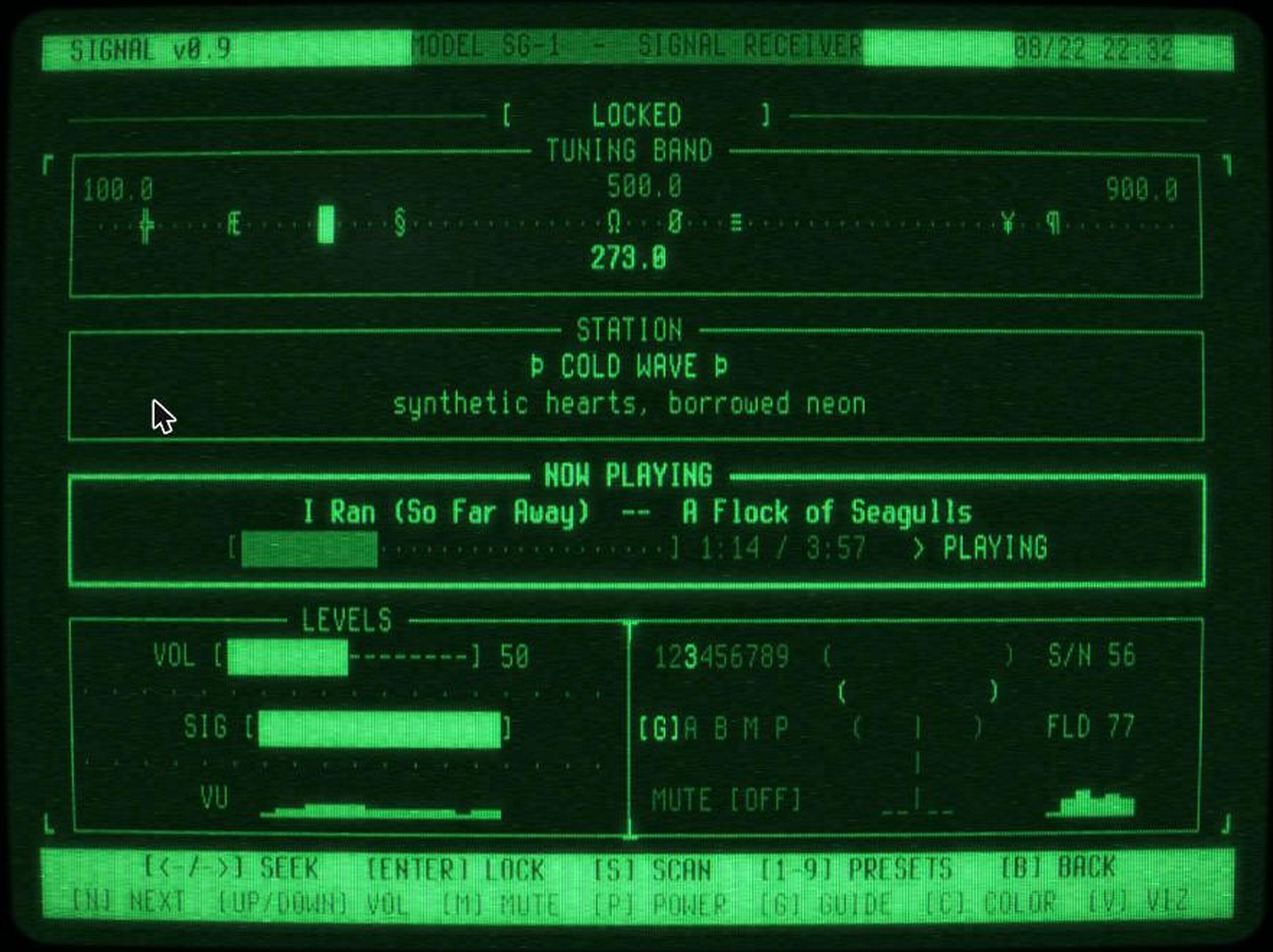
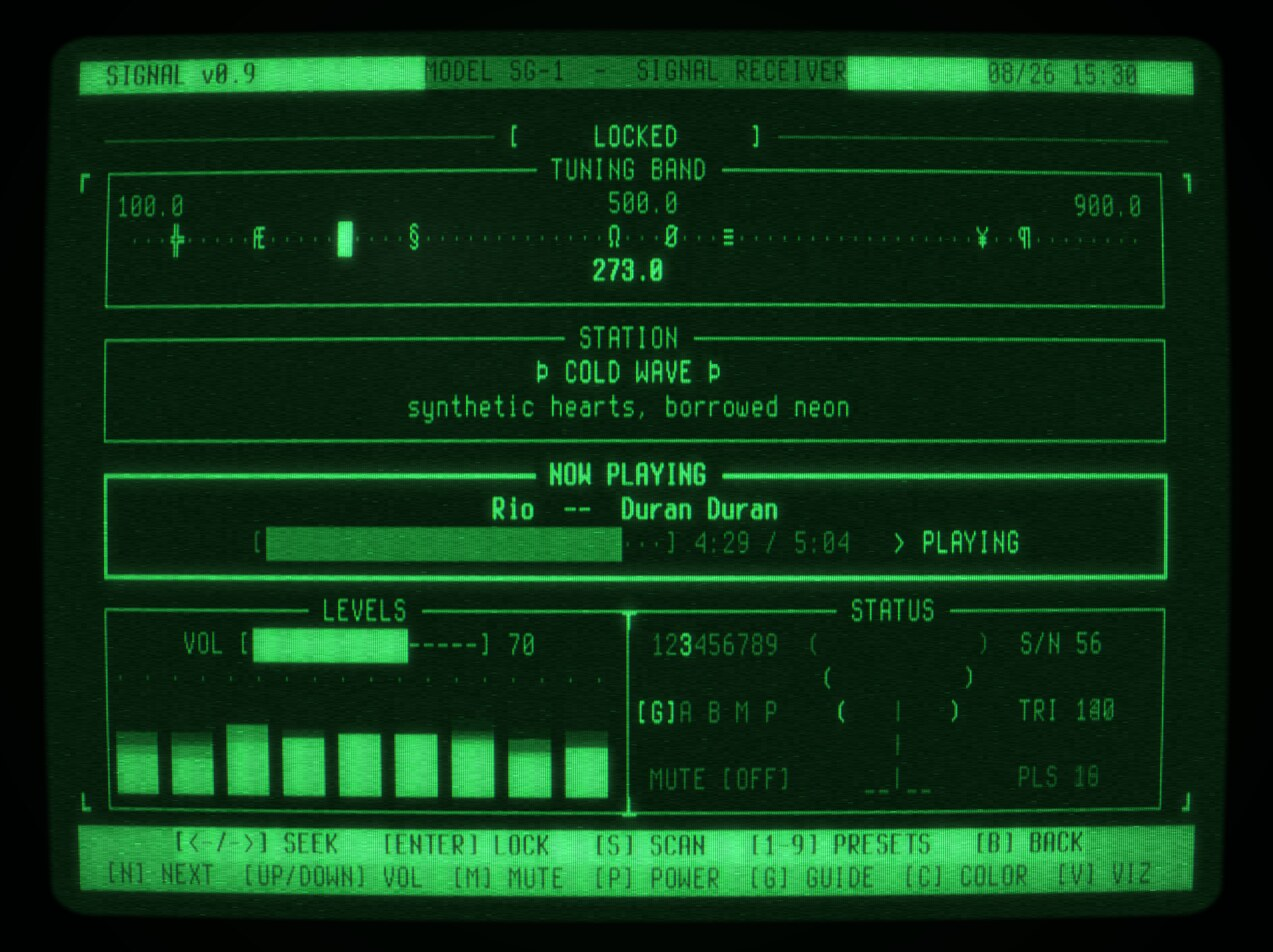
tools/shoot.mjs: regenerate screenshots/ headlessly; refresh all four
By hand these are a chore, so they rot -- the guide shot was still showing
a UI that had been replaced. This drives a real Chrome over the DevTools
Protocol (Node's global WebSocket speaks CDP, so no npm deps) and rebuilds
any named shot from the live build.

All four are refreshed. hero and display-modes now show COLD WAVE with
GREEN ROOM absent from the dial as designed; guide shows the rebuilt About
page; visualizer shows DISTORTION FIELD's flame.

Three app-specific traps the capture has to respect, all found the hard
way, and all of which produce a plausible-looking wrong image rather than
an obviously broken one:

  - The CRT is WebGL2 and headless has no GPU, so ANGLE's software backend
    is forced. Without it the context fails and you screenshot a blank page
    at exactly the right dimensions.
  - Phosphor persistence is per-FRAME (crt.js: max(total, prev * decay))
    and swiftshader runs at ~3fps, so a wall-clock settle caught the
    STANDBY wordmark ghosting straight through the guide's control table a
    full second after the keypress. settleFrames() counts rAF ticks.
  - [G] works from STANDBY, so the guide shot never powers on and never
    starts playback.

Playback itself does work headlessly -- verified reaching PLAYING on the
real IFrame player -- given --autoplay-policy=no-user-gesture-required,
since nothing here is a gesture as far as Chrome is concerned.

Chrome picks its own debugging port and the tool reads it back out of
[…]

diff --git a/CLAUDE.md b/CLAUDE.md
@@ -23,6 +23,7 @@ node tools/verify-roster.js         # npm run verify — lint + oEmbed check of 
 node tools/stations-to-md.js        # npm run stations — regenerate stations.md (never hand-edit it)
 node tools/stamp.js                 # npm run stamp — bump build.json; RUN BEFORE EVERY DEPLOY
 node tools/audition.js --station=<id> # npm run audition — vet candidate tracks (network)
+node tools/shoot.mjs                # npm run shoot — regenerate screenshots/ (headless Chrome + ImageMagick)
 ```
 
 `file://` does not work — the BDF font fetch needs a real origin. Use
@@ -214,5 +215,14 @@ pure helpers; `tests/roster.test.mjs` runs `tools/lint-roster.js`.
   waiting is the fix, not retrying harder; the limit clears on its own in
   tens of minutes. A narrow licence flags as `NARROW-LICENCE:<n>` below 20
   countries (observed counts split cleanly: 1–8 bad, 115–249 healthy).
+- `screenshots/` is regenerated by `tools/shoot.mjs`, which drives a real
+  Chrome headlessly over CDP — re-run it for any shot whose screen you
+  changed, rather than leaving the README showing a UI that no longer
+  exists. Its header documents the three app-specific traps (WebGL2 needs
+  a forced software backend; phosphor persistence settles per FRAME, not
+  per second, so wall-clock waits ghost the previous screen through;
+  `[G]` from STANDBY avoids powering on at all). One known limit: a
+  headless capture cannot get a live audio tap, so the visualizer shot
+  runs on `syntheticAudio()` and reads smoother than the real thing.
 - Verify feel changes in a browser against the dev server as well as in the
   suite — timing, sound and texture are most of what matters here.
